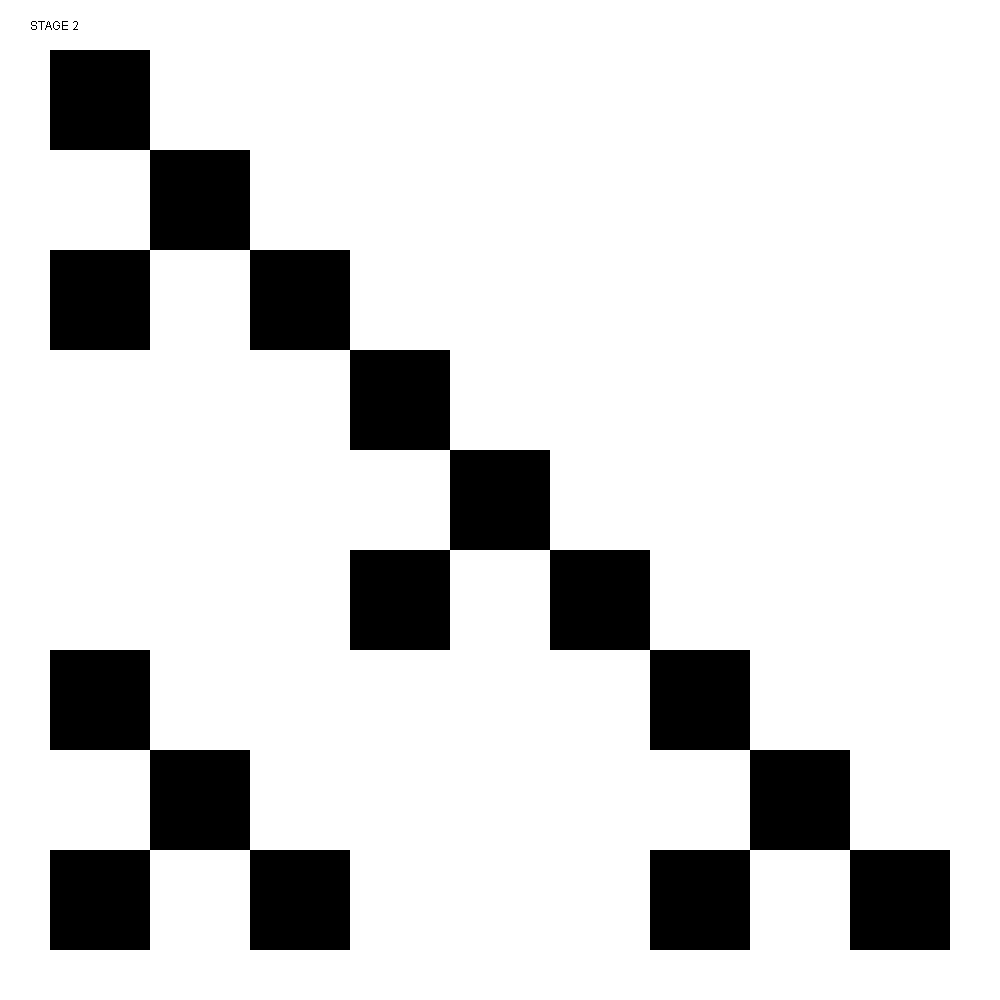
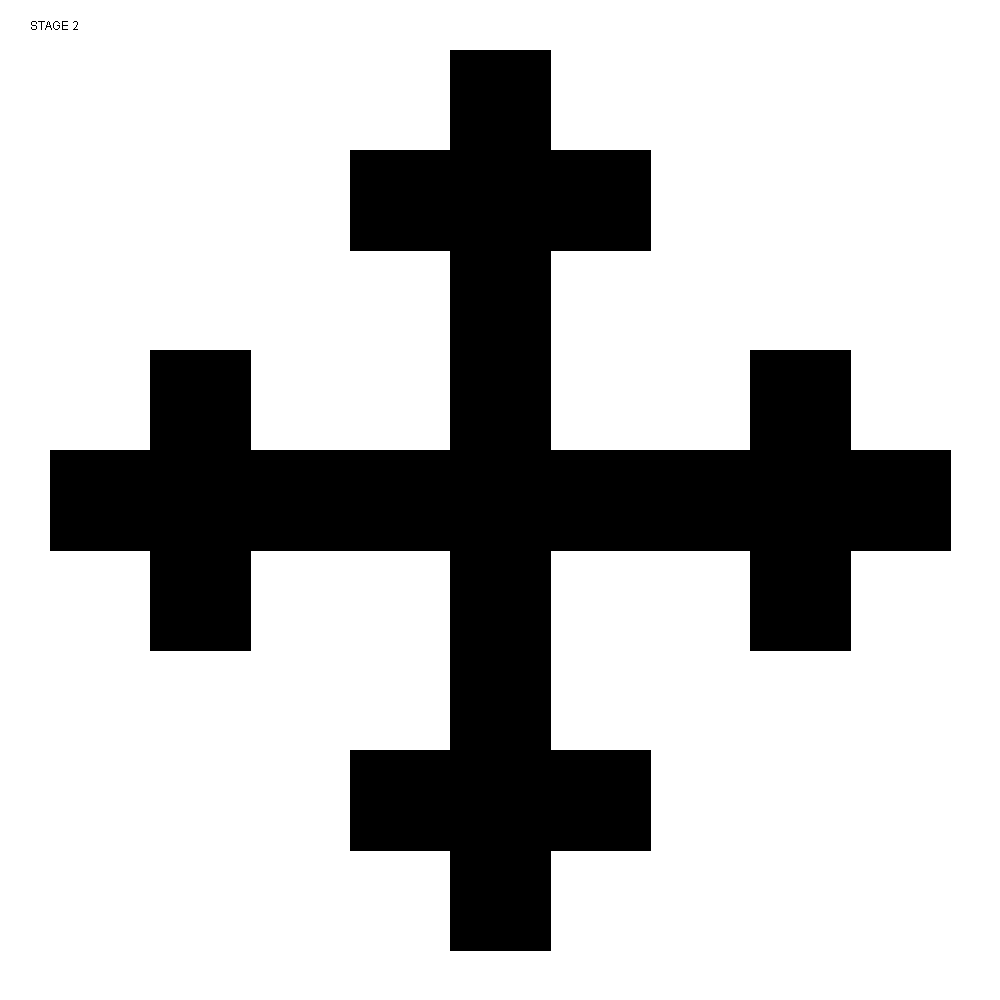
Updated Custom Fractal

diff --git a/src/com/redmintie/fractals/CustomFractal.java b/src/com/redmintie/fractals/CustomFractal.java
@@ -23,7 +23,7 @@ public class CustomFractal {
 		
 		for (int i = 1; i <= iterations; i++) {
 			System.out.println("Iteration " + i + "...");
-			for (int j = 0; j < squares.size(); j += 4) {
+			for (int j = 0; j < squares.size(); j += 5) {
 				Square square = squares.remove(j);
 				double m1 = square.x + square.size / 3;
 				double n1 = square.y + square.size / 3;
@@ -31,10 +31,11 @@ public class CustomFractal {
 				double n2 = square.y + square.size / 3 * 2;
 				double size = square.size / 3;
 				
-				squares.add(j, new Square(square.x, square.y, size));
+				squares.add(j, new Square(m1, square.y, size));
+				squares.add(j, new Square(square.x, n1, size));
 				squares.add(j, new Square(m1, n1, size));
-				squares.add(j, new Square(m2, n2, size));
-				squares.add(j, new Square(square.x, n2, size));
+				squares.add(j, new Square(m2, n1, size));
+				squares.add(j, new Square(m1, n2, size));
 			}
 			save(squares, i);
 		}
@@ -70,7 +71,7 @@ public class CustomFractal {
 			this.size = size;
 		}
 		public void draw(Graphics2D g) {
-			g.fillRect((int)x, (int)y, (int)size, (int)size);
+			g.fillRect((int)x, (int)y, (int)size + 1, (int)size + 1);
 		}
 	}
 }
